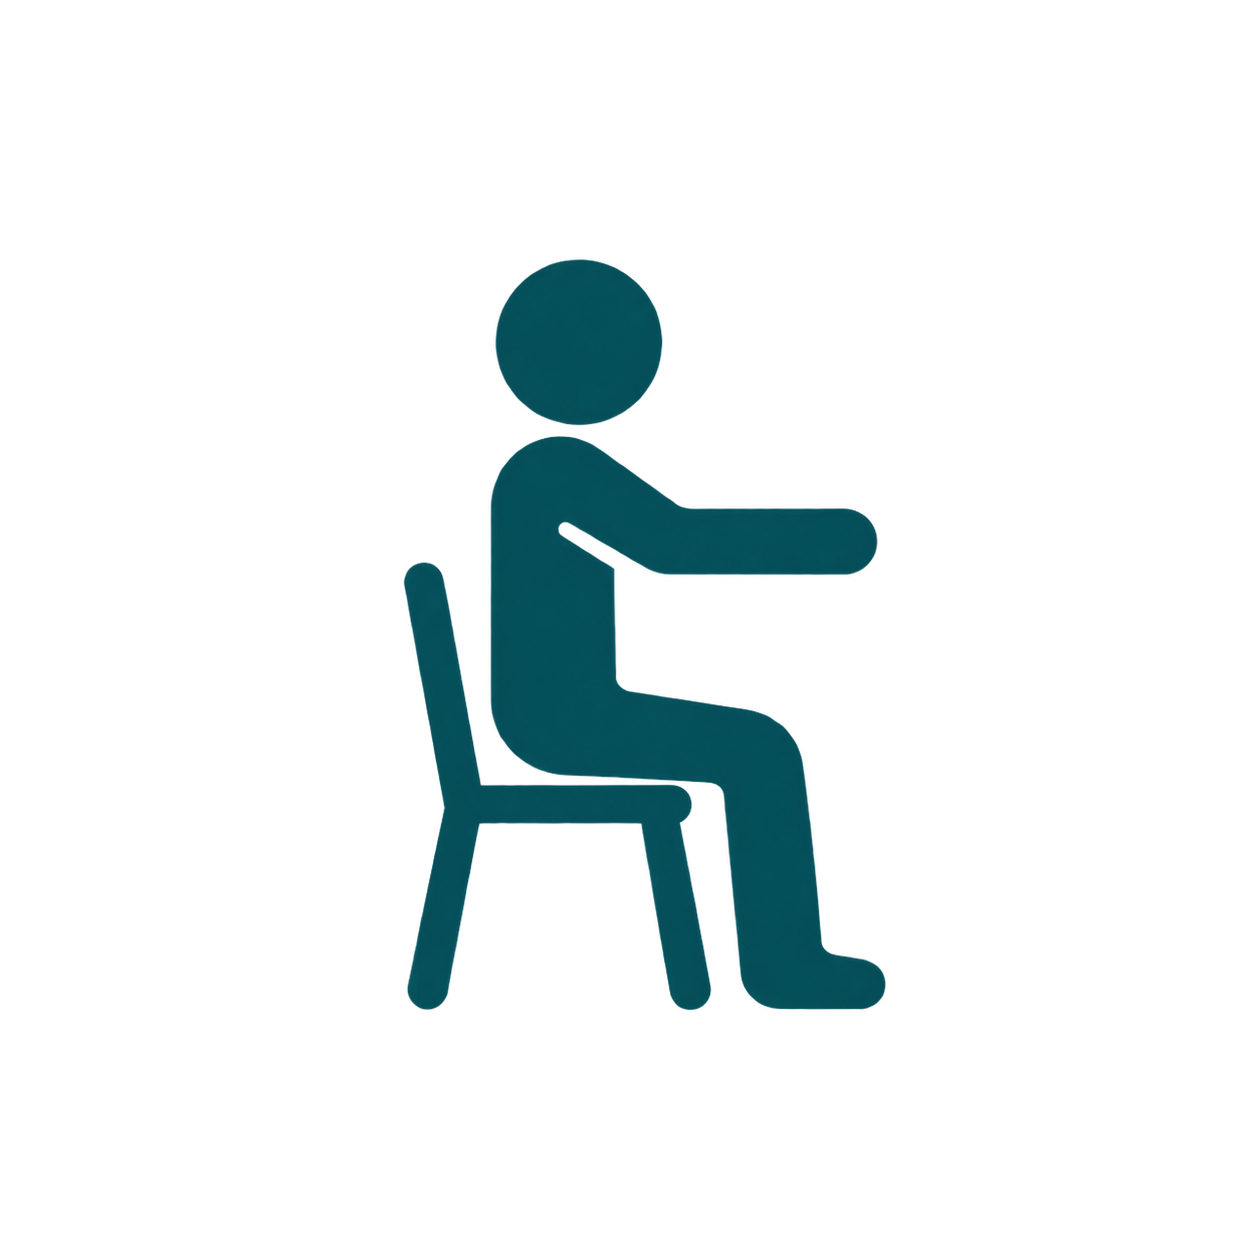
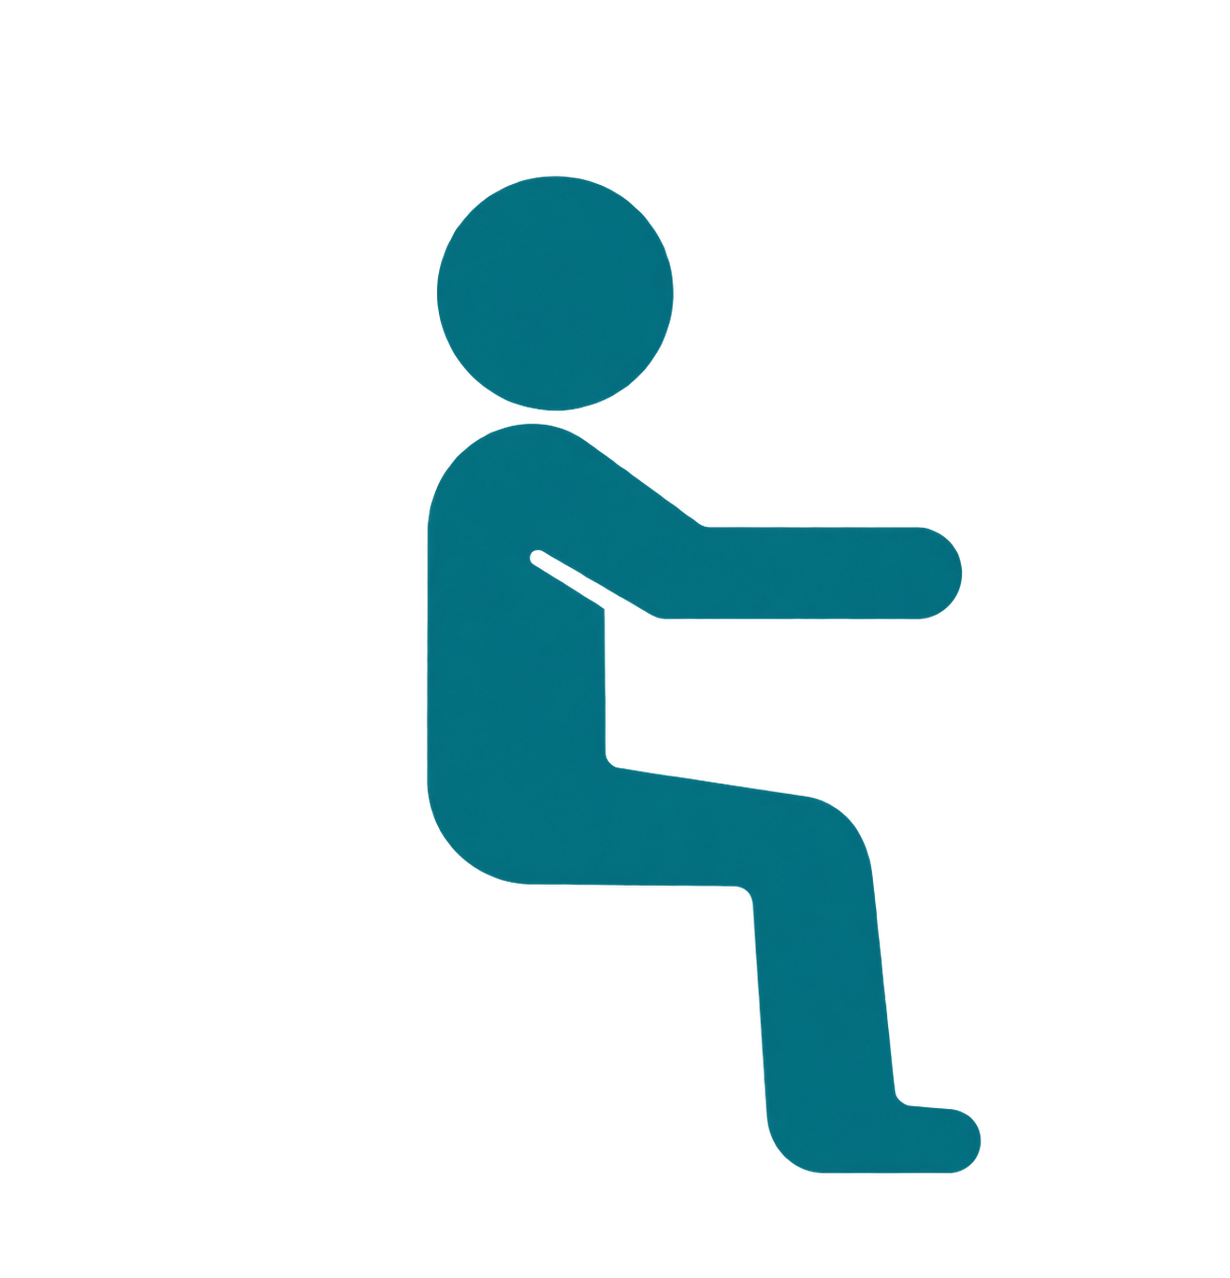
feat: 마이페이지 우상단으로 위치 이동 및 바텀바 좌측에 그룹 페이지 추가  (#76)

Changed region(s): [[0.3089, 0.1244, 0.8033, 0.933]]

diff --git a/src/components/layout/Header.tsx b/src/components/layout/Header.tsx
@@ -1,5 +1,6 @@
 import { ArrowLeft, X } from "lucide-react";
-import { useNavigate } from "react-router-dom";
+import { NavLink, useNavigate } from "react-router-dom";
+import ggubukLogo from "@/assets/logo/fittle-logo-ggubuk.png";
 import wordmark from "@/assets/logo/fittle-wordmark.png";
 import type { HeaderConfig } from "@/types/layout";
 
@@ -7,7 +8,14 @@ type HeaderProps = HeaderConfig & {
   onBack?: () => void;
 };
 
-function Header({ title, showBack = false, showClose = false, backTo, onBack }: HeaderProps) {
+function Header({
+  title,
+  showBack = false,
+  showClose = false,
+  showProfile = false,
+  backTo,
+  onBack,
+}: HeaderProps) {
   const navigate = useNavigate();
 
   const handleBack = () => {
@@ -48,7 +56,7 @@ function Header({ title, showBack = false, showClose = false, backTo, onBack }: 
         )}
 
         <div className="flex size-11 items-center justify-center">
-          {showClose && (
+          {showClose ? (
             <button
               type="button"
               aria-label="닫고 홈으로 돌아가기"
@@ -57,6 +65,25 @@ function Header({ title, showBack = false, showClose = false, backTo, onBack }: 
             >
               <X size={24} aria-hidden />
             </button>
+          ) : (
+            showProfile && (
+              <NavLink
+                to="/mypage"
+                aria-label="마이페이지"
+                className="flex size-11 items-center justify-center"
+              >
+                {({ isActive }) => (
+                  // 꾸북이를 원형 뱃지로 감싼다. 현재 위치일 때만 테두리를 브랜드 색으로 올린다
+                  <span
+                    className={`bg-surface-subtle flex size-9 items-center justify-center overflow-hidden rounded-full ring-1 ${
+                      isActive ? "ring-brand-teal" : "ring-border-default"
+                    }`}
+                  >
+                    <img src={ggubukLogo} alt="" aria-hidden className="size-7 object-contain" />
+                  </span>
+                )}
+              </NavLink>
+            )
           )}
         </div>
       </div>

diff --git a/src/routes/router.tsx b/src/routes/router.tsx
@@ -3,6 +3,7 @@ import AppLayout from "@/components/layout/AppLayout";
 import CalendarPage from "@/pages/CalendarPage";
 import ExerciseCompletePage from "@/pages/ExerciseCompletePage";
 import ExercisePage from "@/pages/ExercisePage";
+import GroupPage from "@/pages/GroupPage";
 import HomePage from "@/pages/HomePage";
 import LoginPage from "@/pages/LoginPage";
 import MapPage from "@/pages/MapPage";
@@ -65,7 +66,10 @@ export const router = createBrowserRouter([
           {
             path: "/",
             element: <HomePage />,
-            handle: { bottomNav: true } satisfies LayoutHandle,
+            handle: {
+              header: { showProfile: true },
+              bottomNav: true,
+            } satisfies LayoutHandle,
           },
           {
             path: "/exercise/:type",
@@ -101,10 +105,18 @@ export const router = createBrowserRouter([
             } satisfies LayoutHandle,
           },
           {
+            path: "/group",
+            element: <GroupPage />,
+            handle: {
+              header: { title: "그룹", showBack: true, backTo: "/", showProfile: true },
+              bottomNav: true,
+            } satisfies LayoutHandle,
+          },
+          {
             path: "/calendar",
             element: <CalendarPage />,
             handle: {
-              header: { title: "캘린더", showBack: true, backTo: "/" },
+              header: { title: "캘린더", showBack: true, backTo: "/", showProfile: true },
               bottomNav: true,
             } satisfies LayoutHandle,
           },
@@ -112,7 +124,7 @@ export const router = createBrowserRouter([
             path: "/map",
             element: <MapPage />,
             handle: {
-              header: { title: "지도", showBack: true, backTo: "/" },
+              header: { title: "지도", showBack: true, backTo: "/", showProfile: true },
               bottomNav: true,
               fullBleed: true,
             } satisfies LayoutHandle,

diff --git a/src/constants/navigation.ts b/src/constants/navigation.ts
@@ -1,4 +1,4 @@
-import { CalendarDays, House, MapPin, UserRound, type LucideIcon } from "lucide-react";
+import { CalendarDays, House, MapPin, Users, type LucideIcon } from "lucide-react";
 
 export interface NavItem {
   to: string;
@@ -6,9 +6,10 @@ export interface NavItem {
   icon: LucideIcon;
 }
 
+// 마이페이지는 탭이 아니라 헤더 우상단 프로필 버튼으로 들어간다
 export const NAV_ITEMS: NavItem[] = [
+  { to: "/group", label: "그룹", icon: Users },
   { to: "/", label: "홈", icon: House },
   { to: "/calendar", label: "캘린더", icon: CalendarDays },
   { to: "/map", label: "지도", icon: MapPin },
-  { to: "/mypage", label: "마이", icon: UserRound },
 ];

diff --git a/src/types/layout.ts b/src/types/layout.ts
@@ -6,6 +6,8 @@ export interface HeaderConfig {
   showBack?: boolean;
   /** 우측 닫기 버튼 노출 여부. 결과 화면을 닫고 홈으로 이동 */
   showClose?: boolean;
+  /** 우측 프로필 버튼 노출 여부. 마이페이지 진입점이다. showClose 와 자리를 공유하므로 함께 켜지 않는다 */
+  showProfile?: boolean;
   /** 뒤로가기 목적지. 없으면 history back */
   backTo?: string;
 }

diff --git a/src/constants/exercises.ts b/src/constants/exercises.ts
@@ -30,8 +30,8 @@ export const EXERCISES: Exercise[] = [
     type: "chair-stand",
     apiType: "CHAIR_STAND",
     historyKey: "chairStand",
-    label: "의자 앉았다 일어나기",
-    cardLabel: "의자 앉았다 일어나기",
+    label: "스쿼트",
+    cardLabel: "스쿼트",
     icon: chairStand,
   },
   {

diff --git a/src/pages/GroupPage.tsx b/src/pages/GroupPage.tsx
@@ -1,0 +1,8 @@
+import MascotSpeech from "@/components/common/MascotSpeech";
+
+// 그룹 — 기능 구현 전 자리만 잡아둔 화면
+function GroupPage() {
+  return <MascotSpeech message={"같이 운동할 그룹 기능은\n준비하고 있어요."} />;
+}
+
+export default GroupPage;

diff --git a/src/components/layout/AppLayout.tsx b/src/components/layout/AppLayout.tsx
@@ -21,6 +21,7 @@ function AppLayout() {
             title={header.title}
             showBack={header.showBack}
             showClose={header.showClose}
+            showProfile={header.showProfile}
             backTo={header.backTo}
           />
         )}
